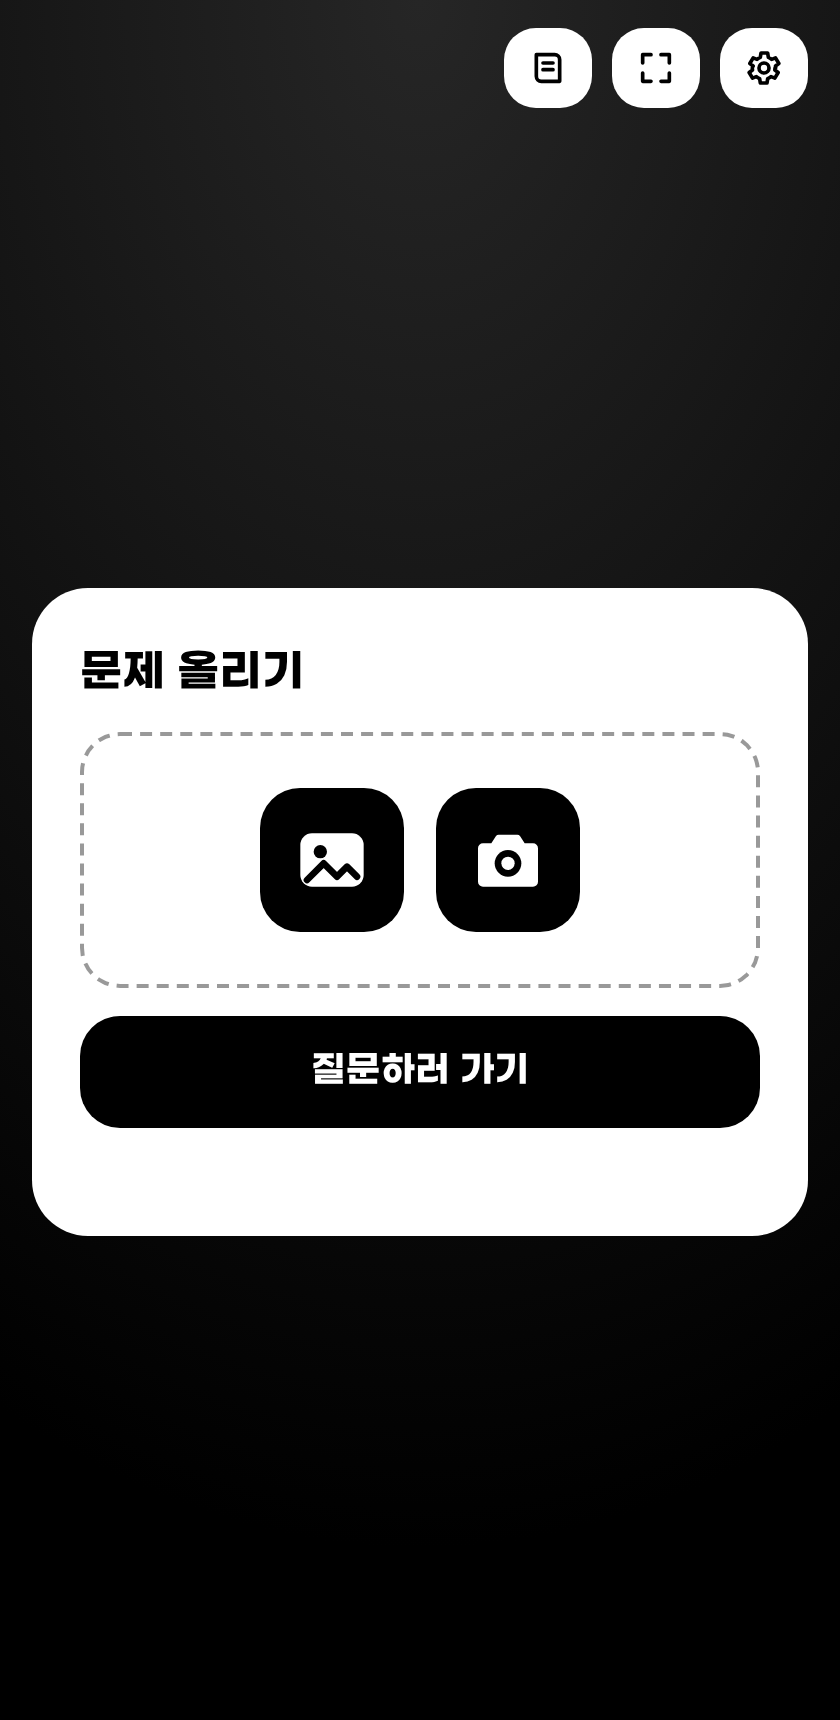
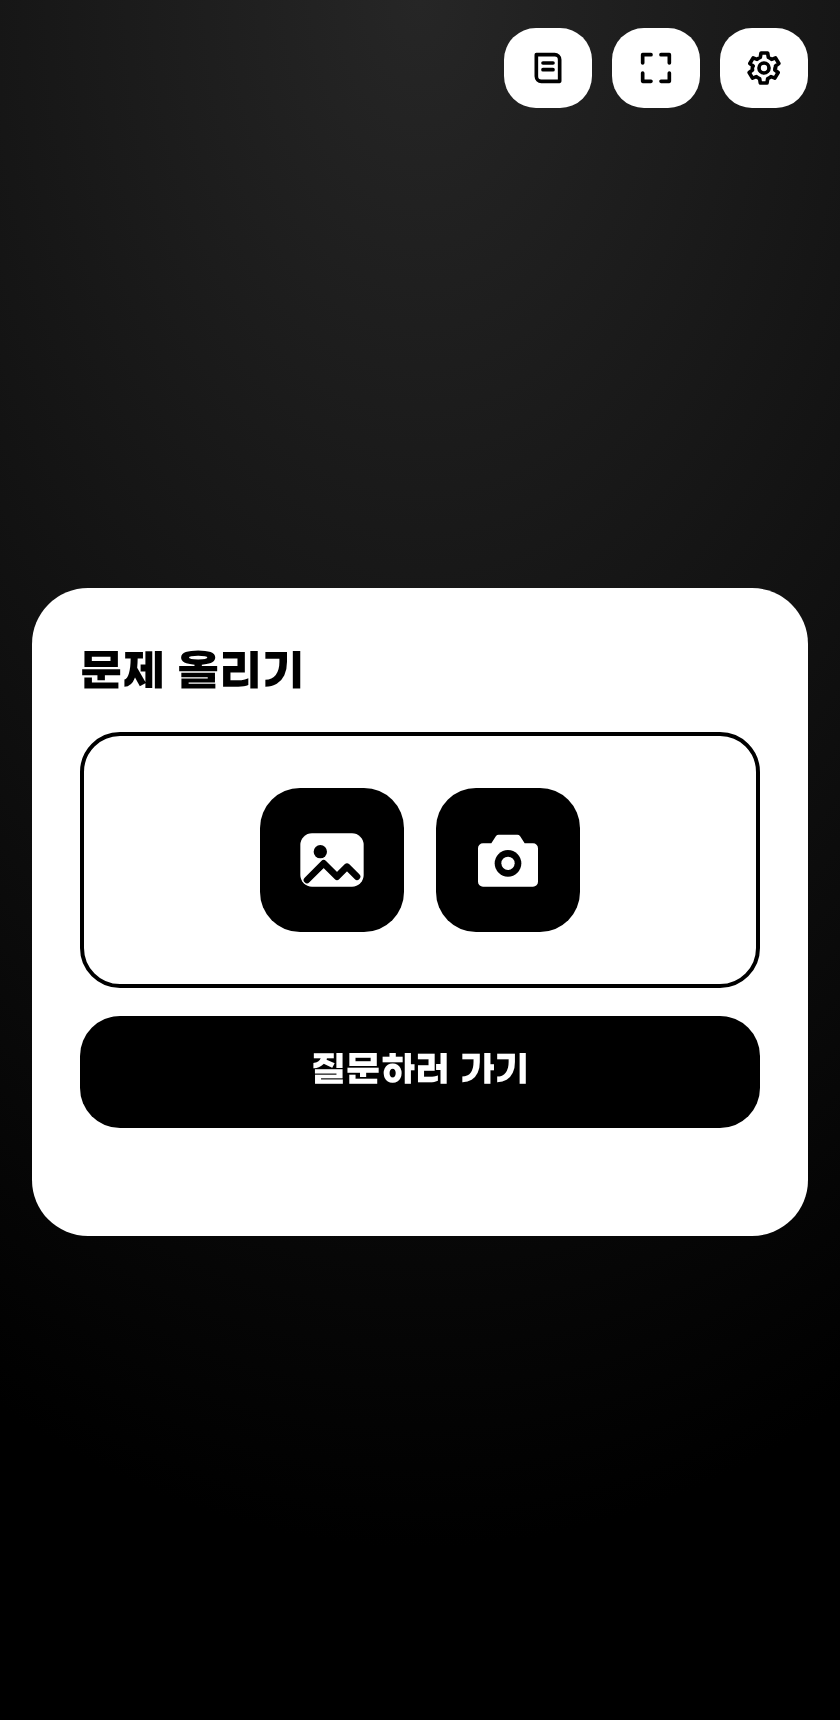
app/: 사진 올리기 칸 테두리를 점선에서 검은 실선으로
Claude-Session: https://claude.ai/code/session_01FPZSaLSNn1aTWB8AHuvKkg

Changed region(s): [[0.0929, 0.4314, 0.1238, 0.5855], [0.8976, 0.4314, 0.9286, 0.5547], [0.8667, 0.5547, 0.8976, 0.5855]]

diff --git a/app/css/stage.css b/app/css/stage.css
@@ -6,6 +6,6 @@
 .compose{position:absolute;inset:68px var(--gut-r) 16px var(--gut-l);margin:auto;width:min(560px,calc(100% - var(--gut-l) - var(--gut-r)));max-height:calc(100% - 84px);height:fit-content;overflow:auto;background:var(--card);border-radius:28px;padding:24px;display:flex;flex-direction:column;gap:14px;box-shadow:var(--sh);animation:pop .55s var(--pop) backwards}
 .compose h1{font-family:"Gmarket";font-weight:700;font-size:22px;margin:0}
 .ask-mode .compose{display:none}
-.drop{display:flex;align-items:center;justify-content:center;gap:16px;border:2px dashed #999;border-radius:var(--r);padding:26px}
+.drop{display:flex;align-items:center;justify-content:center;gap:16px;border:2px solid #000;border-radius:var(--r);padding:26px}
 .btn.icon{display:flex;align-items:center;justify-content:center;width:72px;height:72px;padding:0;border-radius:20px;background:#000;color:#fff}
 .btn.icon svg{width:40px;height:40px}

diff --git a/app/sw.js b/app/sw.js
@@ -1,5 +1,5 @@
 /* 서비스 워커: 앱 파일을 저장해 두어 오프라인에서도 열리게 함 (Anthropic API 요청은 건드리지 않음) */
-const VERSION = "v21";
+const VERSION = "v22";
 const CACHE = "study-tutor-" + VERSION;
 const SHELL = [
   "./",
